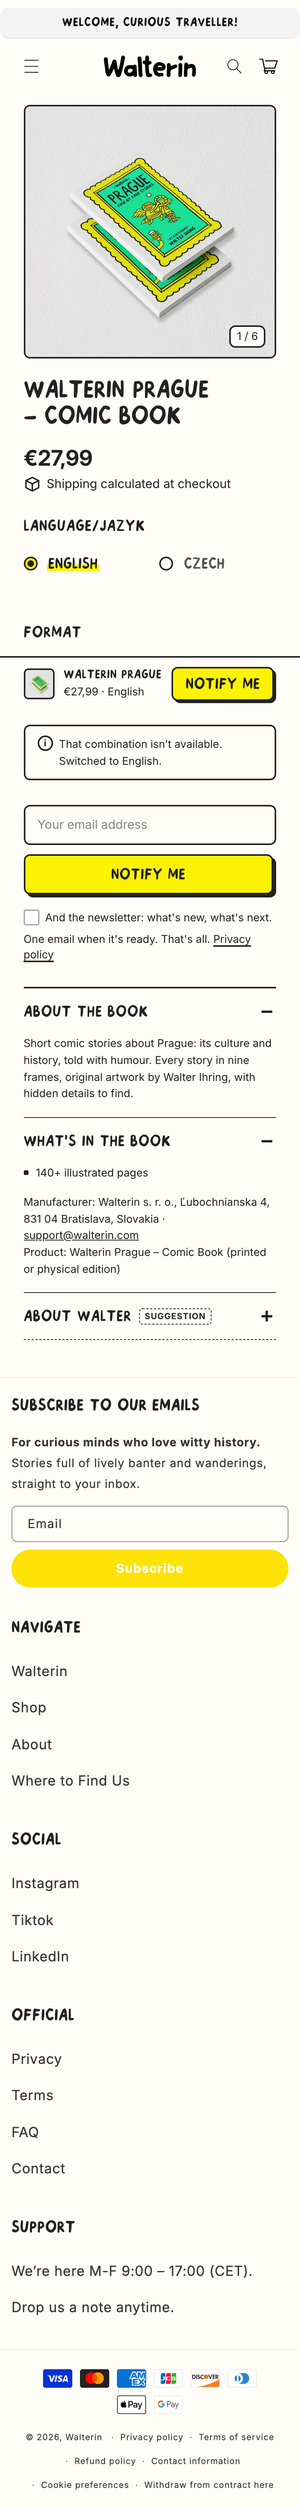
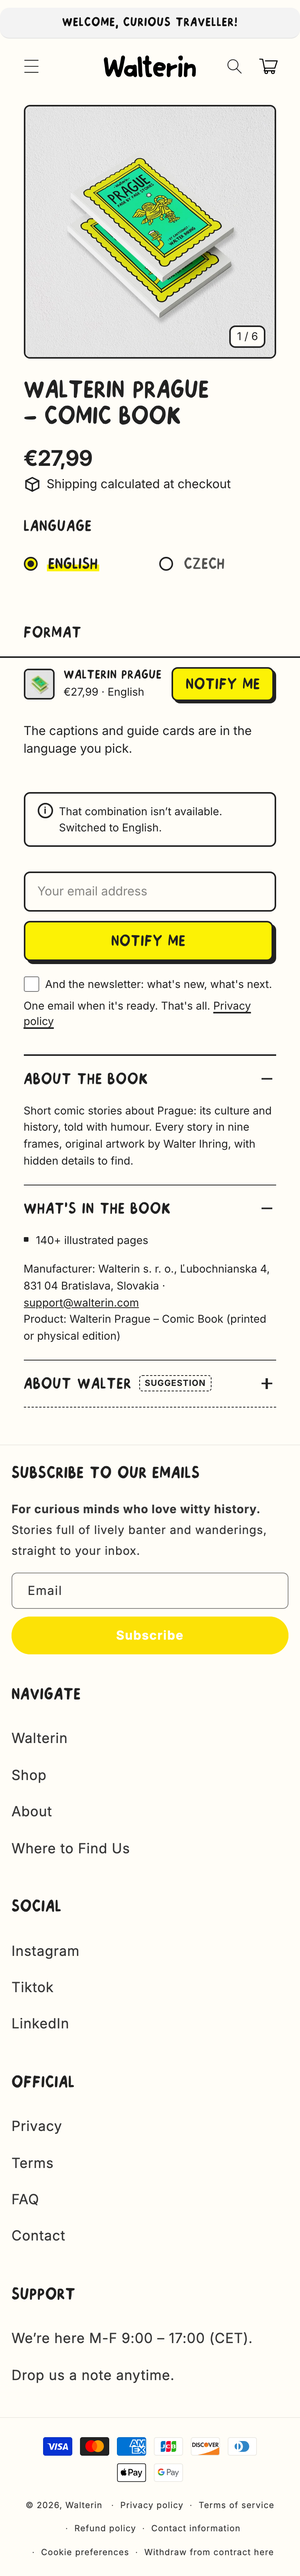
buy column: brand font reliable, edition line instead of the editions accordion, no PayPal
- WalterinBold preloaded first in <head> from the files CDN, font-display: optional plus a
  metric-matched fallback: the brand face showed on 15/15 measured cold loads, CLS still ~0
  (font-display: block tested and rejected: 0.021 on phones)
- copy: "English or Slovak?" accordion removed; one line under the language choice instead
  ("The captions and guide cards are in the language you pick."), SK on record in the product file
- payment icons: new "Hide these payment icons" setting, paypal hidden (the store's PayPal is
  connected to someone else's account) — LAUNCH-READINESS has the admin steps
- spec: fonts section, payment-icon rule, second note line

diff --git a/docs/design/BUY-SECTION-SPEC.md b/docs/design/BUY-SECTION-SPEC.md
@@ -11,7 +11,8 @@ button. Choices are text with a dot and a yellow marker; accordions are ruled ro
 ## 2. Order (never rearranged)
 1. **Title** — the product title, one headline. A line break after a colon; never a separate subtitle.
 2. **Price** — price left, shipping line with its icon right.
-3. **Choice** — one group per product option (Language, Format…), then one note under them.
+3. **Choice** — one group per product option (Language, Format…), then up to two short notes under
+   them (edition, and what the choice actually changes), 8px apart.
 4. **Act** — add to cart (+ express checkout + payment icons) or, before launch, the notify form.
 5. **Read** — accordions: About · What's in the box (product safety inside it) · Delivery · extras.
 
@@ -78,7 +79,9 @@ Only transform, opacity, colour and height ever animate. Nothing changes size on
   "Option value" blocks): an English site never shows a Slovak word, and the other way round.
 - No VAT wording while Walterin is not a VAT payer; tax wording appears only if Shopify's
   "include tax in prices" is switched on.
-- Payment icons come from `shop.enabled_payment_types`: a method that isn't active can't appear.
+- Payment icons come from `shop.enabled_payment_types`, minus anything listed in "Hide these
+  payment icons" (currently `paypal`: the store's PayPal is not Walterin's — see LAUNCH-READINESS).
+  Shopify's express-checkout buttons follow the store's payment settings, not the theme.
 - Product safety (GPSR) is two small lines at the end of "What's in the box", physical only.
 - The legal guarantee stays in the Terms, never in the column.
 
@@ -88,6 +91,14 @@ both products, and fails on: a word broken mid-word, a colour outside the palett
 the column edge, horizontal scroll, a console error, or CLS above 0.001. Screenshots land in
 docs/design/proof/. Also: `shopify theme check`, and a keyboard pass (Tab order, arrows inside a
 choice group, Enter/Space on accordions, Esc closes the zoom and returns focus).
+
+## 10b. Fonts
+WalterinBold is preloaded first in `<head>` from the Shopify files CDN and declared
+`font-display: optional`, with a metric-matched `Walterin Fallback` (size-adjust 83.4%). Inter has
+the same treatment (`Inter Fallback`, size-adjust 96%). Result: the brand face shows on every
+measured load and nothing can re-wrap later, so CLS stays at zero. `block` was tested and is worse
+(0.021 on phones). If the font ever misses the paint window, the stand-in has the same metrics, so
+the layout is identical either way.
 
 ## 11. Zoom
 PhotoSwipe 5 (MIT), self-hosted in assets/, imported on the first tap only — nothing on page load.

diff --git a/docs/launch/LAUNCH-READINESS.md b/docs/launch/LAUNCH-READINESS.md
@@ -34,6 +34,22 @@ Approved items 0–12 are **live**, each one read back:
 - (2) The old draft theme 188994257225 can now be deleted (by Veronka).
 - (3) Plain product URLs are served from Shopify's page cache for a few minutes. Fresh renders already show the Product safety row.
 
+## Blocker added 23 Sep 2026: PayPal belongs to someone else
+
+The store's PayPal is **Inactive and connected to `troplain.shop@gmail.com`**, not to Walterin
+(Veronka, 23 Sep 2026). It still surfaced in Shopify's express-checkout block and payment icons on
+the preview.
+
+**Before launch (Veronka, in the admin):**
+1. Disconnect `troplain.shop@gmail.com` from Settings → Payments.
+2. Set up Walterin's own PayPal, or decide to launch without PayPal.
+
+**Done in the theme meanwhile:** the buy column's payment icons hide anything listed in the
+section setting "Hide these payment icons" (`paypal` by default), so PayPal cannot appear in the
+column. Shopify's express-checkout buttons come from the store's payment settings, not from the
+theme, so that one only disappears once the account is disconnected. Clear the setting once
+Walterin's own PayPal is live.
+
 ## Status update: final setup (22 Sep 2026, late)
 
 - **Workflow:** one live theme, preview with `shopify theme dev`, push only changed files after "OK live", GitHub as backup (CLAUDE.md, ground truth).

diff --git a/docs/products/TAROT-OF-CONSCIOUSNESS.md b/docs/products/TAROT-OF-CONSCIOUSNESS.md
@@ -59,9 +59,15 @@ Preview set (the only cards shown): The Magician, The Fool, The Hermit, Wheel of
 | Thesis | 78 cards. One illustrator. Every card a nine-frame comic. | 78 kariet. Jeden ilustrátor. Každá karta je komiks v deviatich okienkach. |
 | Edition note | Limited to 100 copies | Limitovaná na 100 kusov |
 | Notify note | One email when it's ready. That's all. | Jeden e-mail, keď bude hotový. Nič viac. |
+| Note under the choices 1 | First edition. 100 copies in each language. | Prvé vydanie. 100 kusov v každom jazyku. |
+| Note under the choices 2 | The captions and guide cards are in the language you pick. | Popisky a sprievodné karty sú v jazyku, ktorý si vyberiete. |
 | Newsletter checkbox | And the newsletter: what's new, what's next. | Aj newsletter: čo je nové a čo chystáme. |
 
 Short description (2–3 sentences): TBD, drafted in the house voice, approved by Veronka.
+
+Buy-column accordions (approved 22–23 Sep 2026): About the deck · What's in the box (with the GPSR
+lines) · How to read · Why nine frames · As a gift · About Walter · When can I have it? (before
+launch only). **No "English or Slovak?" accordion**: the one line under the language choice says it.
 
 ## 7. Legal specifics
 
